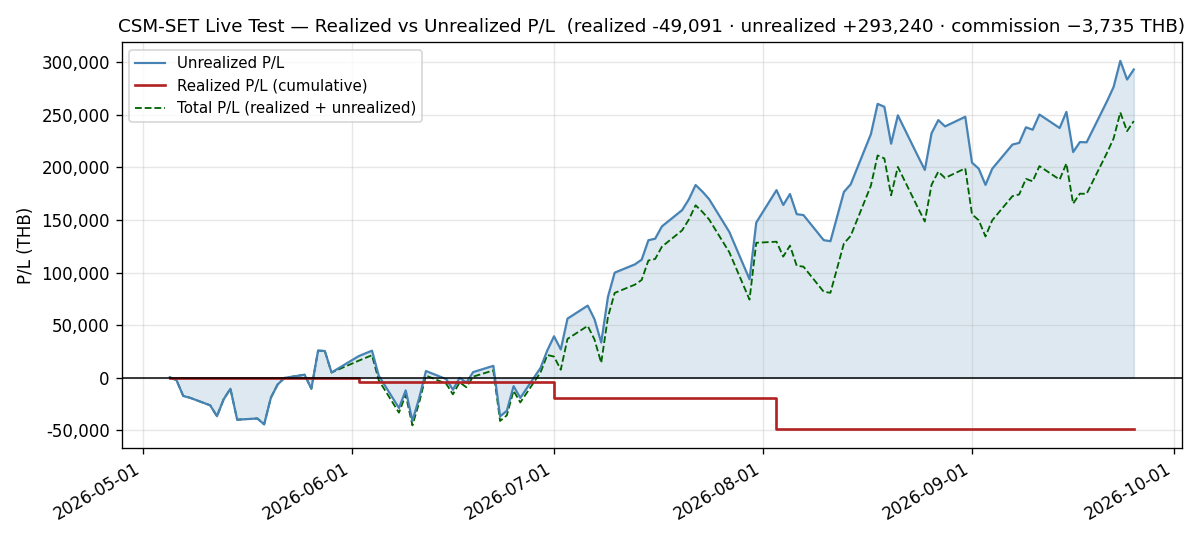
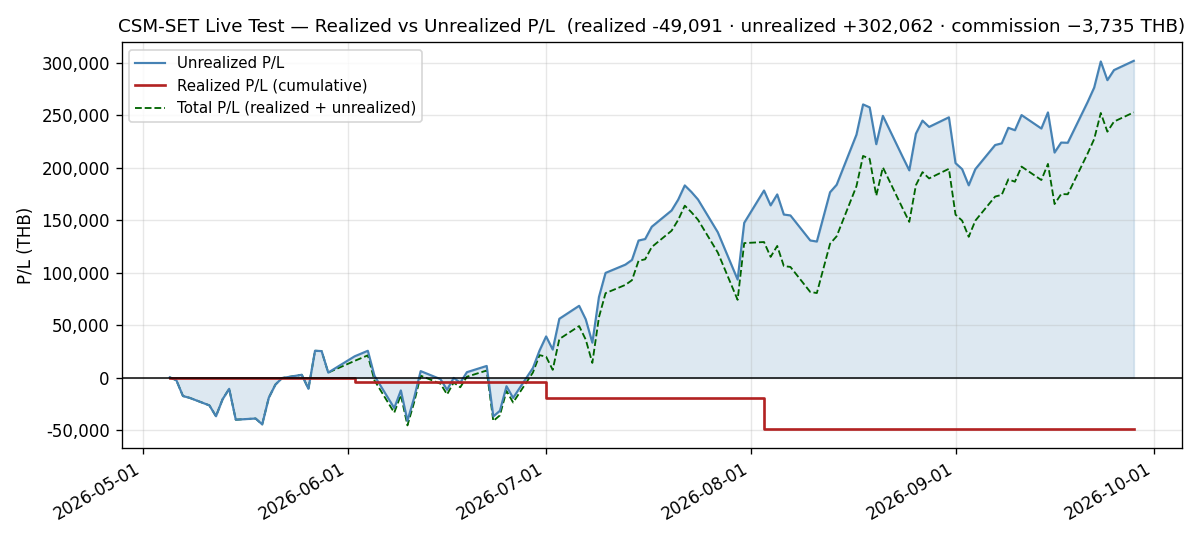
docs(live-test): add daily log for 2026-09-28 — a new NAV high led by GUNKUL and KCE highs, MGC flat while its floor gap grows with NAV, and SET:THCOM unfetched
NAV 1,371,360.70 THB, +8,822.00 (+0.6475%) with no trades - a new live-test high, 620.00 above
the 2026-09-23 high and 41,535.00 above the 2026-08-18 peak. Total Return on NAV +22.44%.
Breadth 6 up / 3 down / 1 flat against a SET down 0.3272%. GUNKUL (5.45) and KCE (67.75)
closed at holding-period highs and supplied 96.58% of the gain; dispersion widened to
122.91pp, the widest of the holding period. ETRON retook the largest sleeve by 0.0986pp.

MGC closed unchanged at 6.80, yet the floor breach deepened for an eleventh session to
6,008.04 under at 4.5619%: the whole 441.10 widening is 5% of the session's NAV gain. MGC now
needs +10.11% to clear. By the same mechanism INSET's ceiling margin widened 483.30 to
3,264.11. Still pre-registration history: seen, not scored.

The 18:00 refresh ended with one universe symbol unfetched, SET:THCOM, which is not held: three
attempts, each answered with a vendor symbol "resolve error", 332.012s, failures=1 - the first
failures>0 receipt since 2026-07-31. All ten held prices and the index were fetched, so the
snapshot rests on complete data; the panel no longer carries a THCOM column (211 -> 210). The
log was written under the precedent of the July logs with a non-held universe failure (for
example 2026-07-17 and 2026-07-31). Whether THCOM resolves before the 2026-09-30 evaluation is
a follow-up.

The holiday calendar was re-captured at 11:18:09Z during the run with unchanged content; the
log cites the new stamp.
[…]

diff --git a/docs/live-test/daily/2026-09-28.md b/docs/live-test/daily/2026-09-28.md
@@ -1,0 +1,168 @@
+# Daily Log — 2026-09-28 (Monday)
+
+**As of:** 2026-09-28, Asia/Bangkok
+**Phase:** C — Extended Observation
+**Day:** 101 / 62 trading days remaining in 2026
+**Status:** 🔴 **PRE-REGISTRATION HISTORY — SEEN, NOT SCORED.** The operator's 2026-09-11 forward-only decision stands and **no scoring criteria have been pre-registered since**, so every figure below carries that label. 🟢 **NAV closes at a new live-test high of 1,371,360.70 THB, up +8,822.00 (+0.6475%)** with no trades — **620.00 above the 2026-09-23 high** and **41,535.00 above the 2026-08-18 peak**; Total Return on NAV is **+22.44%**. Breadth is **6 up, 3 down, 1 flat** against a SET that fell **−0.3272%**, and **GUNKUL and KCE closed at holding-period highs**. 🔴 **MGC closed unchanged at 6.80, yet its floor breach deepened for an eleventh session to 6,008.04 THB under at 4.5619%** — the whole widening is the floor rising with NAV — and **MGC now needs +10.11% to clear**. ⚠ **ETRON retook the largest sleeve**, and **dispersion widened to 122.91pp, the widest of the holding period**. ⚠ **The refresh ended with one universe symbol unfetched, `SET:THCOM`, which is not held** — the first receipt with `failures>0` since 2026-07-31; every held price and the index were fetched.
+
+---
+
+## Execution Summary
+
+**No trades today.** The September rebalance was executed at the **2026-09-01 ATO** as a **0-out / 0-in** rotation, so `configs/live_portfolio.yaml` is unchanged and remains valid. Realized P/L for the session is **0.00 THB** and no commission was paid. **Neither end of the band creates a trade**: the band is applied when the book is constructed, and there is no high-water-mark rule. The next rebalance evaluation is **2026-09-30**, two sessions away.
+
+---
+
+## Portfolio Snapshot
+
+> 🔴 **Every figure in this section is PRE-REGISTRATION HISTORY — NOT SCORED.** It is produced from the **reconstructed series** (`csm.adapters.hooks._reconstruct_live_equity`, which reprices `configs/live_portfolio.yaml` against `data/processed/prices_latest.parquet`) and reconciled against **`db_gateway.daily_performance`**. Where a number below is quoted from a stored series, the series is named.
+
+`Avg Cost` is the commission-inclusive per-share basis carried from `configs/live_portfolio.yaml` (4-decimal precision); `Cost Basis = shares × Avg Cost`, and `U.PL % = MV / Cost Basis − 1`. Per-symbol values reproduce the broker statement exactly.
+
+| # | Symbol | Shares | Avg Cost | Last Price | Market Value (THB) | Cost Basis (THB) | U.PL % |
+|---|--------|-------:|---------:|-----------:|--------------------:|-----------------:|-------:|
+| 1 | KCE | 2,600 | 39.0655 | 67.75 | 176,150.00 | 101,570.30 | +73.43% |
+| 2 | GUNKUL | 30,800 | 2.9246 | 5.45 | 167,860.00 | 90,077.68 | +86.35% |
+| 3 | INSET | 42,000 | 3.0848 | 4.82 | 202,440.00 | 129,561.60 | +56.25% |
+| 4 | HANA | 3,000 | 35.8070 | 51.25 | 153,750.00 | 107,421.00 | +43.13% |
+| 5 | IRPC | 56,600 | 2.3037 | 2.98 | 168,668.00 | 130,389.42 | +29.36% |
+| 6 | EASTW | 24,000 | 4.2672 | 4.98 | 119,520.00 | 102,412.80 | +16.70% |
+| 7 | EPG | 17,300 | 5.9099 | 6.35 | 109,855.00 | 102,241.27 | +7.45% |
+| 8 | SMT | 20,400 | 5.8097 | 6.25 | 127,500.00 | 118,517.88 | +7.58% |
+| 9 | FORTH | 5,300 | 16.1270 | 15.10 | 80,030.00 | 85,473.10 | −6.37% |
+| 10 | MGC | 9,200 | 10.7180 | 6.80 | 62,560.00 | 98,605.60 | −36.56% |
+
+### Portfolio summary
+
+| Metric | Value |
+|--------|-------|
+| Total Cost Basis | 1,066,270.65 THB |
+| Total Market Value | 1,368,333.00 THB |
+| Unrealized P/L | +302,062.35 THB (+28.33%) |
+| Realized P/L (today) | **0.00 THB** |
+| Realized P/L (cumulative, since inception) | **−49,091.38 THB** |
+| Commission paid (cumulative) | **−3,735.16 THB** |
+
+### Account summary
+
+| Metric | Value |
+|--------|-------|
+| Remaining Cash | 3,027.70 THB |
+| Total NAV | 1,371,360.70 THB |
+| Total Return on NAV | +22.44% |
+
+> **Cost-basis note:** Total Cost Basis is unchanged at **1,066,270.65 THB** and the reconciliation delta against Σ per-symbol (`shares × avg_cost`, 4-dp) is **0.00 THB** for a thirty-ninth consecutive session.
+>
+> ⚠ **Above/below cost: 8 up / 2 down, unchanged**, with only **FORTH** and **MGC** below. **GUNKUL's +86.35% and KCE's +73.43% are both holding-period highs**, set by closes of 5.45 and 67.75 that are themselves the highest of the period. **FORTH's −6.37%** is its lowest U.PL since 2026-09-24, and **IRPC's +29.36%** its lowest since 2026-09-22. **MGC's −36.56%** is unchanged.
+>
+> 🔴 **Dispersion WIDENED to 122.91pp, the widest of the holding period** (GUNKUL +86.35% to MGC −36.56%), from 117.78pp — a **+5.13pp** step past the **117.78pp of 2026-09-25**. It widened from the top only: the leader GUNKUL gained **5.13pp** of cost and the laggard MGC did not move.
+>
+> **Total P/L check:** realized + unrealized = −49,091.38 + 302,062.35 = **+252,970.97 THB**, up from +244,148.97 by exactly the +8,822.00 session move. **It stands 620.00 above the +252,350.97 of 2026-09-23 and 41,535.00 above the +211,435.97 of 2026-08-18** — the same margins as NAV's, as they must be while realized P/L is constant.
+
+---
+
+## Day-over-Day Change (vs Friday September 25)
+
+| Symbol | Sep 25 Close | Sep 28 Close | Change | Change % | MV Contribution (THB) |
+|--------|-------------:|-------------:|-------:|---------:|----------------------:|
+| GUNKUL | 5.30 | 5.45 | +0.15 | +2.83% | +4,620.00 |
+| KCE | 66.25 | 67.75 | +1.50 | +2.26% | +3,900.00 |
+| HANA | 50.50 | 51.25 | +0.75 | +1.49% | +2,250.00 |
+| EPG | 6.25 | 6.35 | +0.10 | +1.60% | +1,730.00 |
+| SMT | 6.20 | 6.25 | +0.05 | +0.81% | +1,020.00 |
+| INSET | 4.80 | 4.82 | +0.02 | +0.42% | +840.00 |
+| MGC | 6.80 | 6.80 | 0.00 | 0.00% | 0.00 |
+| EASTW | 5.00 | 4.98 | -0.02 | -0.40% | -480.00 |
+| FORTH | 15.20 | 15.10 | -0.10 | -0.66% | -530.00 |
+| IRPC | 3.06 | 2.98 | -0.08 | -2.61% | -4,528.00 |
+| **Total** | | | | **+0.65%** | **+8,822.00** |
+
+**Breadth: 6 up, 3 down, 1 flat.**
+
+> The `Change %` on the Total row is the **market-value** change (+8,822.00 / 1,359,511.00 = +0.6489%), not the NAV change (+8,822.00 / 1,362,538.70 = +0.6475%). The two differ only because cash sits in the NAV denominator and not in the market-value one; with cash constant at 3,027.70 the absolute change is identical and only the denominator moves.
+
+**Two names at new highs carried the session.** **GUNKUL +2.83% (+4,620.00)** closed at **5.45**, past the 5.30 it had reached on 2026-08-28, 2026-09-23 and 2026-09-25, and **KCE +2.26% (+3,900.00)** — its best session since 2026-09-21 — closed at **67.75**, past 2026-09-23's 67.50; both are **the highest closes of the holding period**, and together they supplied **96.58%** of the gain. **HANA +1.49% (+2,250.00)** closed at 51.25, **equal to its holding-period high close of 2026-09-15**, and **EPG +1.60%** reached 6.35, its highest close since 2026-08-27. Against them, **IRPC −2.61% (−4,528.00)** had its worst session since 2026-09-22. **GUNKUL, EPG and IRPC repeated their 2026-09-25 moves tick for tick** (+0.15, +0.10 and −0.08 on unchanged share counts), so their contributions equal 2026-09-25's to the satang. **MGC closed unchanged at 6.80**, ending a run of three consecutive declines. **The book rose +0.6475% against a SET that fell −0.3272%**, a **+0.9747pp** difference that is a same-session arithmetic result, not a performance comparison (Market Context).
+
+---
+
+## Market Context
+
+| Indicator | Value | Source |
+|-----------|-------|--------|
+| SET Index | 1,602.37 | tvkit (TradingView) |
+| SET Open / High / Low | 1,604.17 / 1,606.24 / 1,594.93 | tvkit |
+| SET 200-day SMA | 1,481.0101 | tvkit (TradingView) |
+| Regime Estimate | BULL | SET +8.19% above SMA200 |
+
+> ⚠ **This is context, NOT a benchmark comparison, and it must not be read as one.** `SET:SET` is a **price index**; the strategy series above is priced on **dividend-adjusted** bars (since `e04a292`, 2026-08-09). The two are not on the same basis, the difference is one-sided in the strategy's favour, and it is not small — measured 2026-09-11 over 2024-03-19 → 2026-09-10, the dividend adjustment is worth **+12.09 percentage points** on this universe, roughly **+4.8%/yr**. The engine's own benchmark loader is also given **no date bounds**, so it compares **600 index points — from 2024-04-03 in today's panel, a start that moves forward one session per session** — against a strategy series that starts at the 2026-08-03 `entry_date`. **No alpha, excess return or outperformance figure is computed anywhere in this log.**
+
+---
+
+## Regime State
+
+- **Detected regime:** BULL — SET (1,602.37) is above SMA200 (1,481.0101) by +8.1944%
+- **SMA200 position:** 1,481.0101 — SET closing at 1,602.37
+- **3-month return:** +3.50% (window-sensitive — see Notes)
+- **No regime-driven action.** The regime filter is evaluated at the month-end rebalance, not intra-month. The next evaluation is **2026-09-30**.
+
+**The SET path from the 2026-09-08 high reads 1,621.89 → 1,617.89 → 1,615.07 → 1,604.52 → 1,591.07 → 1,578.66 → 1,562.73 → 1,583.34 → 1,584.15 → 1,598.03 → 1,604.44 → 1,610.70 → 1,602.58 → 1,607.63 → 1,602.37** — a **−5.26 point, −0.3272%** session that takes the index **back below the 2026-09-11 close of 1,604.52**, which it had regained on 2026-09-25, to its lowest close since 2026-09-21, and leaves it **−1.2035%** below the 2026-09-08 high. Today's range was **11.31 points**, the widest since 2026-09-21. **Cushion fell 8.6779% → 8.1944%, a −0.4835pp step**, as SMA200 rose again to **1,481.0101** (+1.7483); it is the lowest cushion since 2026-09-18. **A BULL→BEAR crossing needs the index 121.36 points lower — a further −7.57% at today's SMA200** — and nothing in the system acts on compression short of that crossing.
+
+The 3-month figure fell from +4.33% to +3.50%: the session's −0.3272% and a start bar that moved from 2026-06-23 (1,540.90) to 2026-06-24 (1,548.22).
+
+---
+
+## Sector Concentration
+
+Groupings are the SET-official classification re-based at the 2026-08-03 rebalance and are unchanged today; percentages are directly comparable to the prior session for every sleeve.
+
+| Sector | Market Value (THB) | % of NAV | Limit | Status |
+|--------|--------------------:|---------:|-------|--------|
+| Energy & Utilities (ENERG) | 456,048 | 33.2551% | 35% | OK — 23,928.25 THB of headroom |
+| Electronic Components (ETRON) | 457,400 | 33.3537% | 35% | OK — 22,576.25 THB of headroom |
+| ICT | 282,470 | 20.5978% | 35% | OK |
+| Construction Materials (CONMAT) | 109,855 | 8.0107% | 35% | OK |
+| Automotive (AUTO) | 62,560 | 4.5619% | 5% floor | 🔴 **BREACHED — 6,008.04 THB under the floor, eleventh session** |
+
+🔴 **THE FLOOR BREACH DEEPENED FOR AN ELEVENTH SESSION WITH MGC UNCHANGED.** **AUTO closed 4.5619%, 6,008.04 THB below the 5% floor** of 68,568.04 — past 2026-09-25's 5,566.94 THB and 4.5914%, so it is **again the deepest of the breach in both THB and weight, and the AUTO sleeve's lowest weight of the holding period**. MGC closed exactly where it closed on 2026-09-25, so **the whole 441.10 THB widening is the floor rising with NAV** — 5% of the +8,822.00 session. **MGC now clears at 7.4874, +10.11%** (static level **7.4530**) — **the furthest clearing distance of the breach**, past 2026-09-25's +9.37%, and the first above 10%. [[TK-0279]]
+
+**At the ceiling end, the same NAV rise moved INSET the other way.** INSET closed 4.82 (+0.42%) at **14.7620% of NAV**, **3,264.11 THB inside the 15% ceiling** of 205,704.11, a margin **483.30 THB wider**: INSET's market value rose 840.00 against a ceiling that rose 1,323.30 with NAV. It goes back over at **4.9114, +1.90%** (static level **4.8977**). Nothing acts on either end before the **2026-09-30** evaluation.
+
+**ETRON retook the largest sleeve after two sessions behind ENERG, by 0.0986pp (1,352.00 THB)** — the third change of the lead since 2026-09-14. ETRON rose **+0.3102pp to 33.3537%** on KCE +2.26%, HANA +1.49% and SMT +0.81%; ENERG fell **−0.2438pp to 33.2551%** as IRPC −2.61% and EASTW −0.40% outweighed GUNKUL +2.83%. **ICT eased −0.1106pp to 20.5978%** on FORTH −0.66%, with INSET's +0.42% short of NAV's rise, **CONMAT rose +0.0751pp to 8.0107%** on EPG, and **AUTO fell −0.0295pp to 4.5619%** with MGC unchanged. The two large sleeves together hold **66.6089% of NAV**, and sit **1.6463pp** (ETRON) and **1.7449pp** (ENERG) from the 35% cap.
+
+---
+
+## Risk Notes
+
+1. 🔴 **PRE-REGISTRATION HISTORY — SEEN, NOT SCORED (operator decision, 2026-09-11, unchanged).** The track record restarts forward-only, and **scoring criteria are still pending an operator pre-registration**: checked for this log across the strategy repo, the ticket store and the umbrella, and **none has been recorded**. A new high is computed as every prior session was; it changes nothing about what the record may be used for.
+2. 🟢 **NAV rose +8,822.00 (+0.6475%) to 1,371,360.70, a new live-test high** — **620.00 (+0.0452%) above the 2026-09-23 high** and **41,535.00 above the 2026-08-18 peak** — follow-up (d). **Total Return on NAV is +22.44%**, also the highest of the series with the starting NAV in force on each date. **Nothing in the book acts on a high.**
+3. ⚠ **The position band is breached at one end**: INSET is inside at **14.7620%** (3,264.11 under the ceiling); MGC is at **4.5619%** (6,008.04 under the floor). **No action is recommended and none has been sized.** Both persist to the **2026-09-30** evaluation, two sessions away. 🔑 **Today one NAV rise moved both limits without MGC moving at all**: it widened INSET's ceiling margin by 483.30 and MGC's floor gap by 441.10. [[TK-0279]]
+4. 🔴 **AUTO's floor breach deepened in its eleventh session to 6,008.04 THB under at 4.5619%** — follow-up (b): MGC did not reach 7.4369; it closed unchanged at 6.80. **All 441.10 of the widening is the floor rising with NAV.** It clears at **7.4874 (+10.11%)**, the furthest distance of the breach. ⚠ MGC is still outside the 5–15% position band at its low end. [[TK-0279]]
+5. ⚠ **MGC closed unchanged at 6.80**, ending a run of three consecutive declines, and its U.PL holds at **−36.56%**. It remains the weakest holding and the whole of the breached AUTO sleeve; **its exit candidacy is unchanged and is answered by rule at the evaluation**, not by one session.
+6. ⚠ **INSET is inside the band at 14.7620%** — follow-up (a) answered: it rose to 4.82 but stayed below 4.8779. **Its margin widened to 3,264.11 THB**, and it goes back over at **4.9114 (+1.90%)**. It remains **the book's largest position**, with U.PL **+56.25%**. Recorded as a distance, not a forecast.
+7. 🟢 **`equity_curve` and `daily_performance` agree for a fourteenth consecutive session**, both **1,371,360.70** — follow-up (c) answered — and the panel's vendor stamp held at **09:55 Bangkok** for a ninth session. The mechanism is unchanged and the agreement is still **not a fix**: `hooks.py` rewrites the whole `[entry_date, today]` window on every refresh, so the next vendor back-adjustment re-opens the divergence behind the append-only gateway rows. [[TK-0297]]
+8. 🟢 **Circuit-breaker buffer 22.41% of NAV, +0.50pp on the session** — the highest of the series. The 5% breaker trips at **1,064,000 THB**; NAV sits **+307,360.70 above it**. **NAV is at its peak**, so the drawdown is **0.00%**. The rolling `circuit_breaker.trigger_threshold` is −10% over 60 days; 0.00% is clear.
+9. ⚠ **The refresh completed on schedule with one universe symbol unfetched: `SET:THCOM`, which is not held.** Attempt 1 recovered 200 of the 201 universe symbols (`requested=201 recovered=200 still_failing=1`), attempts 2 and 3 recovered nothing, and the job ended `universe: exhausted 3 attempts with 1 symbol(s) still missing: ['SET:THCOM']` after **332.012s**, the longest refresh of the holding period. **It is the first receipt with `failures>0` since 2026-07-31** (`SET:BANPU`). **No held symbol failed** (`held_symbols_failed=0`) and the index was fetched, so today's snapshot rests on complete data. The vendor answered every attempt with a symbol `resolve error`; a one-off diagnostic fetch at 18:08 BKK drew the same error from a different vendor server while a KCE fetch in the same run succeeded. **Why the symbol no longer resolves is not established here.** The panel no longer carries a THCOM column (Notes). THCOM is in the ranking universe, so **whether it resolves before the 2026-09-30 evaluation is a follow-up**.
+10. 🟢 **The uncredited dividend total HELD at 8,927.00 THB** — KCE 1,560.00, INSET 2,100.00, MGC 2,208.00, FORTH 795.00, IRPC 2,264.00. It stands at **3.53%** of the +252,970.97 total P/L, **down from 3.66%** purely because the denominator grew, and **0.65% of NAV**. There is still no dividend-accrual path anywhere in the book. Recorded, deliberately not corrected. Carries to **2026-09-30**.
+11. **INFRA (carried) — the container publishes `:8100` on all interfaces while private-mode auth is disabled.** `CSM_API_KEY` is absent from the container environment and `CSM_PUBLIC_MODE=false`. **Risk tier: low-moderate and LAN-scoped.** Two low-risk options, operator's call: bind to `127.0.0.1:8100:8000`, or set `CSM_API_KEY`. A recreate is required for the first and has not occurred. **Thirty-third consecutive log.**
+12. ⚠ **DOC — the `csm-set-daily-log` skill's `daily_return` guidance remains stale.** Its Step 3 still calls the field *"an open defect, not yet fixed in code"*; **it was fixed 2026-09-02**. Today `daily_return` reads **+0.6475%** and agrees with this log's headline exactly, because no bar was restated. The instruction to compute the change independently remains correct and is followed. **Fifteenth log to carry this.**
+13. **Four open decisions carry to the 2026-09-30 evaluation, now two sessions away**: the drift question at both ends of the position band (Risk Notes 3, 4, 6), fix-notional-not-shares on the entrants, restate-vs-cutover for price history (Risk Note 7), and dividend accrual (Risk Note 10). 🔑 **Since the floor breach began on 2026-09-14, the floor has not cleared once in eleven sessions, and the ceiling has been crossed on two separate single sessions inside that window** — every one of them recorded and none of them acted on.
+
+---
+
+## Notes
+
+- **Scheduled refresh completed via APScheduler with one universe failure.** `"Scheduled daily_refresh completed"` at **2026-09-28T11:05:33Z** (18:05 BKK) — the 18:00 cron firing, not a manual `POST /api/v1/scheduler/run/daily_refresh`. Receipt: `symbols_fetched=210, failures=1, duration_seconds=332.012, held_symbols_fetched=10, held_symbols_failed=0, retry_attempts_used=2, index_fetched=true`, corroborated by `results/.tmp/last_refresh.json`. The next run is scheduled for **2026-09-29 18:00 +07** (Risk Note 9).
+- **The price panel and the prior log agree on all ten names**, so **nothing was restated** (Risk Note 7).
+- **The panel's row count fell 930 → 929**, and **every row still carries a 09:55 Bangkok stamp**, with no duplicated session date. **Its column count fell 211 → 210** (209 symbols + `SET:SET`): the `SET:THCOM` column is absent after today's refresh, THCOM being the one symbol it did not fetch. THCOM remains in `data/processed/universe_latest.parquet`.
+- **Row-integrity checks pass.** `db_csm_set.equity_curve` holds **exactly one row per trading day at `00:00:00+00`** — 100 rows, 100 dates, none off midnight — and today's row equals `daily_performance.total_value`.
+- **The container has run since the 2026-09-23 01:47:23Z host reboot**, with no restart since; its creation date (2026-09-01) is unchanged, so its environment and the `:8100` binding are those of the same container instance.
+- **`configs/live_portfolio.yaml` is unchanged** since the 2026-08-03 rewrite — thirty-nine sessions.
+- **The P/L identity holds and its residual is unchanged.** `realized_cum + unrealized − (NAV − starting_nav)` = −49,091.38 + 302,062.35 − 251,360.70 = **1,610.27 THB**, the same constant as every session since the rebasing.
+- **Every figure was verified rather than asserted.** Σ position market value equals Total Market Value exactly (1,368,333.00); **Total NAV (1,371,360.70) equals `db_gateway.daily_performance.total_value` to the satang**; Σ (shares × price change) equals the market-value change (+8,822.00) exactly; the sector table sums to Total Market Value exactly; Σ per-symbol cost basis matches Total Cost Basis with a **0.00** delta; the position count is 10. All money arithmetic used `Decimal` with explicit half-up rounding (INSET **14.7620%**, **3,264.11 THB** inside a 205,704.11 ceiling, going back over at **4.9114**; AUTO **4.5619%**, **6,008.04 THB** under a 68,568.04 floor, the whole 441.10 widening being the floor's rise, clearing at **7.4874**; the ETRON−ENERG lead **0.0986pp** and **1,352.00 THB**).
+- **Realized P/L and commission ledger — both unchanged, no trades today.** Realized cumulative **−49,091.38 THB** (2026-06-02 −4,351.87 · 2026-07-01 −14,964.06 · 2026-08-03 −29,775.45). Commission cumulative **−3,735.16 THB**.
+- **Capital events to date, unchanged.** `starting_nav` 1,120,000 after 1,000,000 → 1,100,000 (2026-06-04, +100,000) → 1,120,000 (2026-08-03, +20,000). Both injections are inside the pre-registration window and neither is performance.
+- **Every superlative was computed, and each names its window.** The **new high**, the Return on NAV and the buffer come from the full `db_gateway.daily_performance` series (101 rows), each return taken on the starting NAV in force on its date. **The 122.91pp dispersion, GUNKUL's and KCE's high closes and U.PL, HANA's tie with its 2026-09-15 high, the AUTO sleeve's lowest weight, the breach's deepest THB gap and furthest clearing distance, the three tick-for-tick repeats of 2026-09-25, the change of sleeve leader** and each "since" date are **of the 2026-08-03 holding period**, checked against all 39 prior published logs and, for prices, against the panel from 2026-08-03. **No held name set a new low.** The index figures are measured over bars fetched back to 2024-09-05.
+- **3-month return figure is window-sensitive.** +3.50% is measured over the trailing 66 bars from today's close (start bar 2026-06-24, 1,548.22) and moves materially with the start bar (Regime State). The regime estimate does not use it.
+- **Follow-ups for the next session (Tuesday 2026-09-29 18:00 +07).** (a) **INSET against the 15% ceiling — it goes back over at 4.9114, +1.90%**; (b) **AUTO against the 5% floor — MGC clears at 7.4874, +10.11%**; (c) whether `equity_curve` and `daily_performance` agree for a fifteenth session; (d) **whether `SET:THCOM` resolves in the next refresh**, and whether ETRON holds the largest sleeve on its 1,352.00 THB lead. **All four follow-ups from 2026-09-25 are closed above** — (a) Risk Note 6, (b) Risk Note 4, (c) Risk Note 7, (d) Risk Note 2 and Sector Concentration.
+- **Calendar.** 2026-09-28 was a trading session; the banked SET holiday calendar (`results/.tmp/set_holidays.json`, `captured_at 2026-09-28T11:18:09Z`) carries no closure from 2026-09-28 through 2026-10-01, and the next 2026 closure is **2026-10-13**. No trading hours are stated anywhere in this log.
+- Data fetched via tvkit (TradingView, free tier) — all 10 held-symbol prices from the 18:00 BKK scheduled-cron refresh; SET Index context anchored explicitly to the 2026-09-28 bar. ⚠ **The vendor back-adjusts a symbol's entire history on an ex-dividend date**, so any prior-session price quoted here is the vendor's *current* view of that session and not necessarily what was published at the time.

diff --git a/docs/live-test/graphs/README.md b/docs/live-test/graphs/README.md
@@ -260,6 +260,20 @@ do not re-derive `k` from the new NAV.
 
 ## History
 
+**`pnl.csv` extended through 2026-09-28** on 2026-09-28, appending the **2026-09-28** row — one row,
+continuing the same-session practice for a **thirty-second** consecutive session. `realized_cum` and
+`commission_cum` are unchanged (no trade since the 2026-08-03 rotation; the 2026-09-01 rebalance
+traded nothing), so the whole movement is the unrealized leg (+293,240.35 → **+302,062.35**, a
+**+8,822.00** session). 🟢 **`total_pl` sets a new maximum at +252,970.97**, 620.00 above the
++252,350.97 of 2026-09-23, on a new NAV high, and **`unrealized` sets the series maximum at
++302,062.35**, past the +301,442.35 of 2026-09-23. The reconciliation residual holds at
+**1,610.27**. **`pnl_realized_unrealized.png` was regenerated in the same session**, so the two
+artifacts end together at **100 points**; the four PNGs were checksummed before and after and the
+three NAV charts are byte-identical (`drawdown` eea580c3…, `equity_curve` 25b0baf9…,
+`monthly_returns` aebd96bd…), with only the P/L chart's hash moving (a15290c7… → **6d8e7ddc…**).
+Every point in the series remains **pre-registration history — seen, not scored** under the operator
+decision of 2026-09-11; no scoring criteria have been pre-registered since.
+
 **`pnl.csv` extended through 2026-09-25** on 2026-09-25, appending the **2026-09-25** row — one row,
 continuing the same-session practice for a **thirty-first** consecutive session. `realized_cum` and
 `commission_cum` are unchanged (no trade since the 2026-08-03 rotation; the 2026-09-01 rebalance
